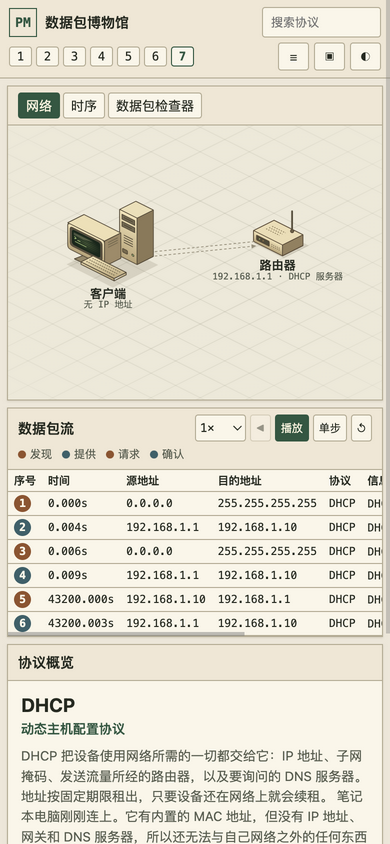
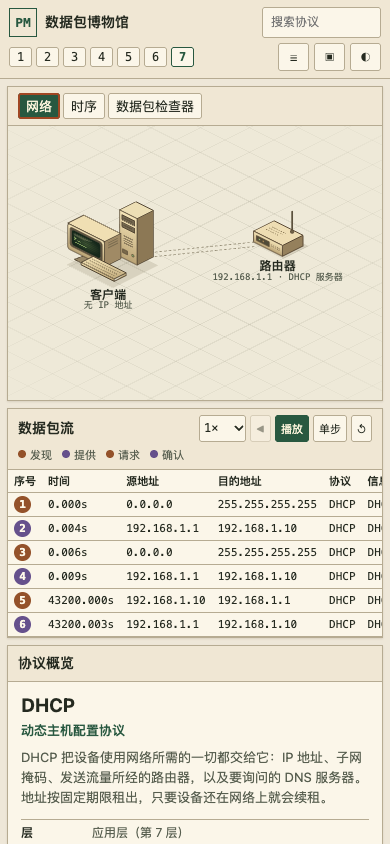
DHCP 课程加入开场步骤并显示租得的地址

diff --git a/src/lessons/dhcp/copy.js b/src/lessons/dhcp/copy.js
@@ -6,8 +6,10 @@ export const overview = {
 };
 
 export const intro = {
+  id: 'no-address', title: '还没有地址', subtitle: '笔记本电脑加入网络',
   text: '笔记本电脑刚刚连上。它有内置的 MAC 地址，但没有 IP 地址、网关和 DNS 服务器，所以还无法与自己网络之外的任何东西通信。它用 DHCP 来请求这些。',
-  facts: [['IP 地址', '无（使用 0.0.0.0）'], ['MAC 地址', '00:00:5e:00:53:10']],
+  facts: [['IP 地址', '无（使用 0.0.0.0）'], ['MAC 地址', '00:00:5e:00:53:10'], ['需要', 'IP、掩码、网关、DNS']],
+  closeup: ['client'], events: [{ node: 'client', text: '还没有 IP 地址' }],
 };
 
 export const outro = {
@@ -21,7 +23,7 @@ export const steps = [
     id: 'discover', title: '发现', subtitle: '向整个网络喊话',
     text: '由于还没有自己的地址，笔记本电脑从 0.0.0.0 发往广播地址 255.255.255.255，所以本地网络上的每台设备都会收到。只有 DHCP 服务器会回答。',
     facts: [['从', '0.0.0.0，UDP 端口 68'], ['到', '255.255.255.255，端口 67'], ['携带', 'MAC，事务 ID']],
-    frames: ['dhcp-1'], closeup: ['client'],
+    frames: ['dhcp-1'],
   },
   {
     id: 'offer', title: '提供', subtitle: '路由器提出一个地址',
@@ -40,6 +42,8 @@ export const steps = [
     text: '服务器确认后，笔记本电脑配置好地址、掩码、网关和 DNS 服务器。许多系统会先用 ARP 检查有没有别的设备已经在用这个地址。',
     facts: [['地址', '192.168.1.10/24'], ['网关', '192.168.1.1'], ['DNS 服务器', '8.8.8.8']],
     frames: ['dhcp-4'],
+    nodeUpdates: { client: { address: '192.168.1.10', after: 'dhcp-4' } },
+    events: [{ node: 'client', after: 'dhcp-4', time: '0.009s', text: '192.168.1.10/24 · 租期 24 小时' }],
   },
   {
     id: 'renew', title: '续租', subtitle: '租期过半时',

diff --git a/src/lessons/dhcp/index.js b/src/lessons/dhcp/index.js
@@ -3,9 +3,7 @@ import { frames } from './frames.js';
 
 export default {
   meta: { id: 'dhcp', title: 'DHCP', subtitle: '动态主机配置', group: 2, order: 16, layer: 7 },
-  // shortcut: the no-packet opening is folded into the overview, split it when steps can have zero frames.
-  overview: { ...overview, text: `${overview.text} ${intro.text}`, facts: [...overview.facts, ...intro.facts] },
-  outro, steps, frames,
+  overview, outro, steps: [intro, ...steps], frames, timeColumn: true,
   viewBox: [0, 0, 620, 310],
   nodes: [
     { id: 'client', label: '客户端', address: '无 IP 地址', kind: 'pc', x: 166, y: 169 },
@@ -14,8 +12,8 @@ export default {
   links: [{ nodes: ['client', 'router'], points: [[220, 143], [409, 124]] }],
   legend: {
     discover: { label: messageLabels.discover, tone: 'referral' },
-    offer: { label: messageLabels.offer, tone: 'query' },
+    offer: { label: messageLabels.offer, tone: 'violet' },
     request: { label: messageLabels.request, tone: 'referral' },
-    ack: { label: messageLabels.ack, tone: 'query' },
+    ack: { label: messageLabels.ack, tone: 'violet' },
   },
 };
